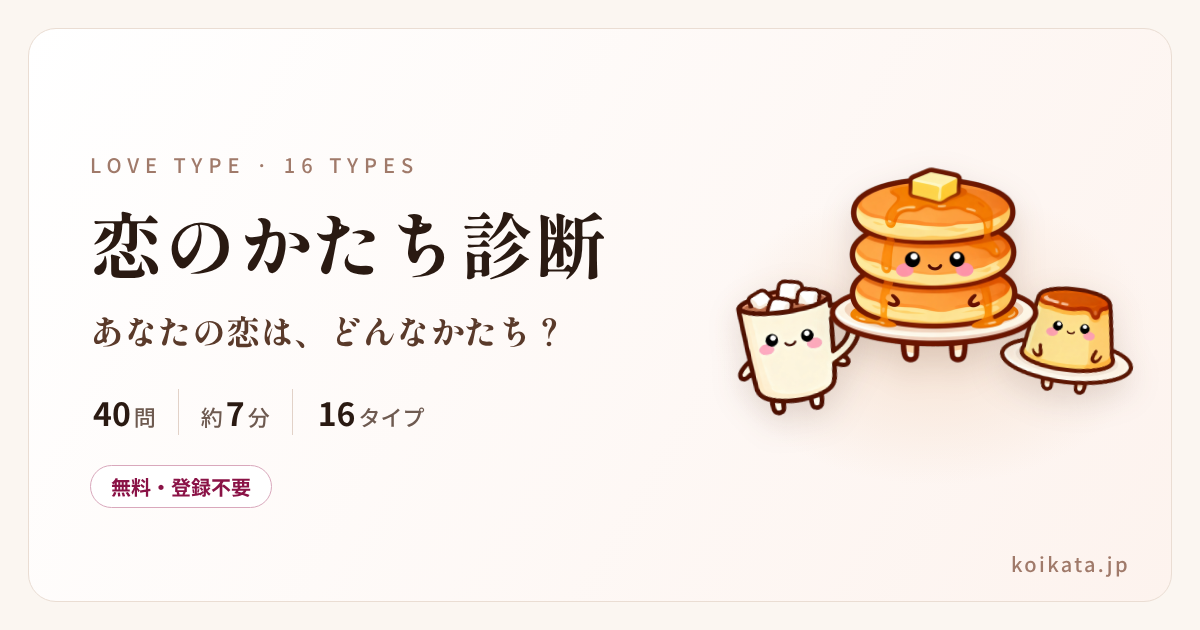
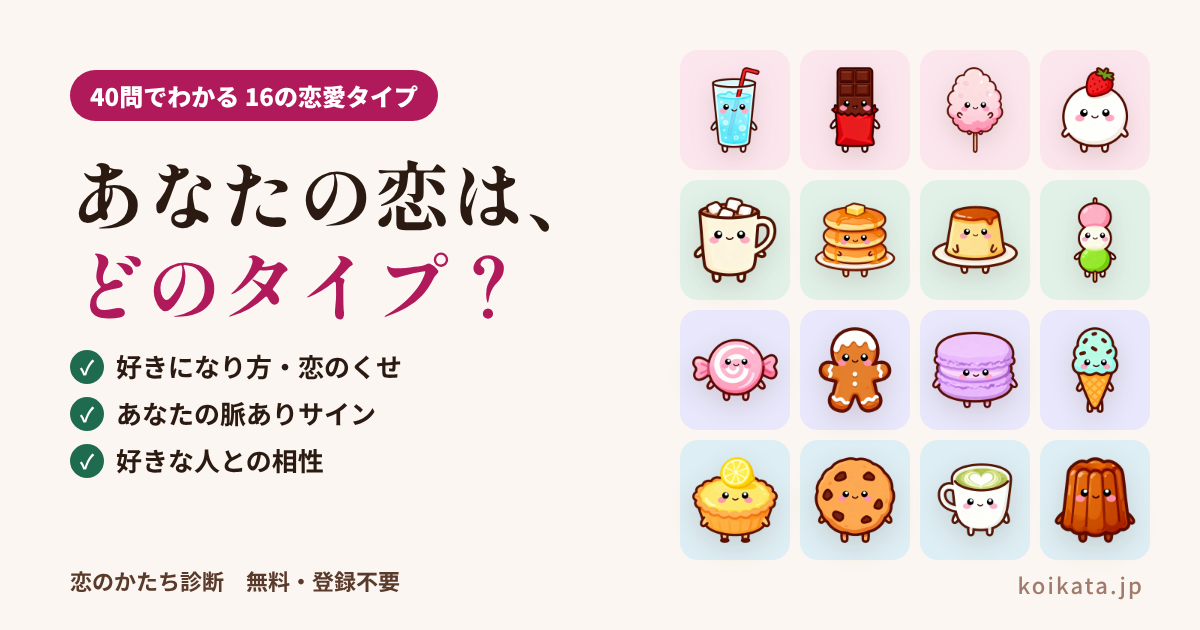
恋のかたち診断：シェアの紹介画像を案A（16タイプを全部見せる）に
Claude-Session: https://claude.ai/code/session_01VNhb2iCPFHtHjevBTfmMUk

diff --git a/tools/koi16_og.html b/tools/koi16_og.html
@@ -1,39 +1,37 @@
-<!doctype html><html lang="ja"><head><meta charset="utf-8">
-<!-- 恋のかたち診断のシェア画像（1200×630）。見た目A「表紙のように」（鑑定者本人 2026-11-16）。
-     作り直し：node tools/koi16_og.cjs → koi16/og-image.png -->
-<link rel="stylesheet" href="https://fonts.googleapis.com/css2?family=Noto+Sans+JP:wght@500;700&family=Shippori+Mincho+B1:wght@800&display=swap">
-<style>
-html,body{margin:0;width:1200px;height:630px;overflow:hidden}
-body{background:#FBF6F1;font-family:"Noto Sans JP",sans-serif;color:#2A1A12;position:relative}
-.frame{position:absolute;inset:28px;border:1.5px solid #EADDD3;border-radius:28px;background:linear-gradient(120deg,#FFFFFF 0%,#FDF3EE 100%)}
-.txt{position:absolute;left:90px;top:150px;width:640px}
-.eye{font-size:20px;letter-spacing:.3em;color:#A07A6A;margin:0 0 22px}
-h1{font-family:"Shippori Mincho B1",serif;font-weight:800;font-size:72px;line-height:1.15;margin:0 0 22px;letter-spacing:.03em;white-space:nowrap}
-.sub{font-family:"Shippori Mincho B1",serif;font-weight:800;font-size:34px;margin:0 0 34px;color:#5A3A2A}
-.spec{display:flex;font-size:22px;color:#6E5A50;margin:0;padding:0;list-style:none}
-.spec li{padding:0 22px;border-left:1.5px solid #E2D2C8}.spec li:first-child{padding-left:0;border-left:0}
-.spec b{font-size:32px;color:#2A1A12;margin:0 3px}
-.free{display:inline-block;margin-top:30px;font-size:20px;font-weight:700;color:#8A1246;border:1.5px solid #D9A8BC;border-radius:999px;padding:6px 20px;background:#fff}
-.stage{position:absolute;right:56px;top:100px;width:420px;height:420px}
-.stage::before{content:"";position:absolute;left:50%;top:56%;width:440px;height:300px;transform:translate(-50%,-50%);border-radius:50%;background:radial-gradient(closest-side,#F6E2D2,rgba(253,243,238,0))}
-.stage img{position:absolute;filter:drop-shadow(0 12px 16px rgba(90,50,30,.16))}
-.c{width:250px;left:50%;top:40px;transform:translateX(-50%);z-index:2}
-.l{width:150px;left:0;top:170px;transform:rotate(-8deg)}
-.r{width:150px;right:0;top:165px;transform:rotate(7deg)}
-.url{position:absolute;right:70px;bottom:52px;font-size:20px;letter-spacing:.12em;color:#A07A6A}
+<!doctype html><html lang="ja"><head><meta charset="utf-8"><link rel="stylesheet" href="https://fonts.googleapis.com/css2?family=Noto+Sans+JP:wght@500;700;900&family=Shippori+Mincho+B1:wght@800&display=swap"><style>html,body{margin:0;width:1200px;height:630px;overflow:hidden}body{background:#FBF6F1;font-family:"Noto Sans JP",sans-serif;color:#2A1A12;position:relative}.min{font-family:"Shippori Mincho B1",serif;font-weight:800}img{filter:drop-shadow(0 8px 12px rgba(90,50,30,.15))}
+.l{position:absolute;left:70px;top:70px;width:560px}
+.eye{display:inline-block;background:#B01A5A;color:#fff;font-weight:900;font-size:24px;padding:8px 20px;border-radius:999px}
+h1{font-size:76px;line-height:1.2;margin:26px 0 18px}
+h1 em{font-style:normal;color:#B01A5A}
+.sub{font-size:28px;font-weight:700;margin:0 0 26px;color:#4A362B}
+.chk{list-style:none;margin:0;padding:0;display:grid;gap:10px;font-size:26px;font-weight:700}
+.chk li::before{content:"✓";display:inline-grid;place-items:center;width:34px;height:34px;border-radius:50%;background:#1F6B4F;color:#fff;font-size:20px;margin-right:12px;vertical-align:2px}
+.g{position:absolute;right:50px;top:50px;width:470px;display:grid;grid-template-columns:repeat(4,1fr);gap:10px}
+.g div{border-radius:18px;height:120px;display:grid;place-items:center}
+.g img{width:96px;height:96px;object-fit:contain}
+.TP{background:#FCE6EE}.TC{background:#E1F1E8}.SP{background:#E8E7FB}.SC{background:#DDEEF4}
+.url{position:absolute;right:56px;bottom:30px;font-size:22px;color:#A07A6A;letter-spacing:.1em}
+.br{position:absolute;left:70px;bottom:34px;font-size:22px;font-weight:700;color:#5A3A2A}
 </style></head><body>
-<div class="frame"></div>
-<div class="txt">
-  <p class="eye">LOVE TYPE · 16 TYPES</p>
-  <h1>恋のかたち診断</h1>
-  <p class="sub">あなたの恋は、どんなかたち？</p>
-  <ul class="spec"><li><b>40</b>問</li><li>約<b>7</b>分</li><li><b>16</b>タイプ</li></ul>
-  <span class="free">無料・登録不要</span>
-</div>
-<div class="stage">
-  <img class="l" src="../koi16/img/LVTC.png" alt="">
-  <img class="r" src="../koi16/img/RVTC.png" alt="">
-  <img class="c" src="../koi16/img/LATC.png" alt="">
-</div>
-<div class="url">koikata.jp</div>
+<div class="l"><span class="eye">40問でわかる 16の恋愛タイプ</span>
+<h1 class="min">あなたの恋は、<br><em>どのタイプ？</em></h1>
+<ul class="chk"><li>好きになり方・恋のくせ</li><li>あなたの脈ありサイン</li><li>好きな人との相性</li></ul></div>
+<div class="g"><div class="TP"><img src="../koi16/img/LVTP.png"></div>
+<div class="TP"><img src="../koi16/img/LATP.png"></div>
+<div class="TP"><img src="../koi16/img/RVTP.png"></div>
+<div class="TP"><img src="../koi16/img/RATP.png"></div>
+<div class="TC"><img src="../koi16/img/LVTC.png"></div>
+<div class="TC"><img src="../koi16/img/LATC.png"></div>
+<div class="TC"><img src="../koi16/img/RVTC.png"></div>
+<div class="TC"><img src="../koi16/img/RATC.png"></div>
+<div class="SP"><img src="../koi16/img/LVSP.png"></div>
+<div class="SP"><img src="../koi16/img/LASP.png"></div>
+<div class="SP"><img src="../koi16/img/RVSP.png"></div>
+<div class="SP"><img src="../koi16/img/RASP.png"></div>
+<div class="SC"><img src="../koi16/img/LVSC.png"></div>
+<div class="SC"><img src="../koi16/img/LASC.png"></div>
+<div class="SC"><img src="../koi16/img/RVSC.png"></div>
+<div class="SC"><img src="../koi16/img/RASC.png"></div></div>
+<div class="br">恋のかたち診断　無料・登録不要</div><div class="url">koikata.jp</div>
 </body></html>
+<!-- 恋のかたち診断のシェア画像（1200×630）。案A＝16タイプを全部見せる（鑑定者本人 2026-11-16「A」）。作り直し：node tools/koi16_og.cjs → koi16/og-image.png -->

diff --git a/CLAUDE.md b/CLAUDE.md
@@ -61,7 +61,7 @@
 - 参考にした lovetype16.jp の軸・名前・文章・絵は使わない（相手のサイトは無断利用禁止）。答えは端末の中だけに保存。
 - **リリースまわり**（鑑定者本人 2026-11-12「プライバシーポリシーや何か法的に必要なものはないか」）：**プライバシーポリシー**（`?privacy=1`・`renderPrivacy`。集める情報なし／端末に保存するもの〈ローカルストレージ・クッキーなし〉と「この端末の答えと結果を消す」ボタン〈`wipeAll`〉／外部送信〈Google Fonts＝Google LLC・サーバーのアクセスログ・LINE／X のボタン〉／ほかのサイトへのリンク／診断について／変更／お問い合わせ）。**問い合わせ先 info@72k.ai はプライバシーポリシーの中だけ**に書き、ページの下（フッター）には出さない（鑑定者本人「問い合わせを表に出す必要はない」）。フッターは「プライバシーポリシー」だけ（ライセンスはページの下に出さない＝鑑定者本人 2026-11-14「出す必要がないものが出てる」。法律上どこかに置く必要があるので、プライバシーポリシーの「8. 使っている部品」に「ライセンスを見る」ボタンを置く。押すとサイトの見た目のままのライセンスのページ〈`?licenses=1`・`renderLicenses`〉が開き、原文〈英語〉はたたんで読める。文字だけのファイルを直接開かせない＝鑑定者本人 2026-11-14「コードがみえるのはおかしい」）。BudouX のライセンス全文は `koi16/licenses/budoux-LICENSE.txt`。アイコンは恋するいちご大福（`favicon.png`・`apple-touch-icon.png`・`icon-512.png`）。**公開URLは https://koikata.jp/**（鑑定者本人が お名前.com で取得 2026-11-13。DNS は お名前.com の DNSレコード設定に A `199.36.158.100`・TXT `hosting-site=koikata`。koinokatachi.jp は取らない＝鑑定者本人の判断 2026-11-13「B」。.com は取られていた）。`python3 tools/koi16_set_domain.py https://koikata.jp/` で入れた。置き場はほかのサイト（究極二択診断など）と同じ **Firebase Hosting**（鑑定者本人の指示 2026-11-13「Firebase につないで」。プロジェクト **16typeplus**〈ID `typeplus-69c66`〉の中のサイトID `koikata`・`koi16/firebase.json`〈target `koikata`〉・`koi16/.firebaserc`・手順 `koi16/公開手順_Firebase.md`。GitHub に保存すると `.github/workflows/koi16-deploy.yml` が自動で公開する〈鍵は GitHub の Secrets `FIREBASE_SERVICE_ACCOUNT_KOIKATA`。鍵をリポジトリやチャットに書かない〉。サーバーの処理はなし＝静的に置くだけ）（og:image を絶対URLに・og:url・canonical・twitter:image。相対URLのままだと LINE・X に紹介画像が出ない。ドメインを変えるときはこれを回し直す）。キャラクターの絵（pollo.ai）は使ってよいことを鑑定者本人が確認済み（2026-11-13「画像は使って大丈夫」）。「1.66%」の根拠は 1.66 側にあることを鑑定者本人が確認済み（2026-11-13「1.66の根拠は大丈夫」）。特定商取引法の表記・クッキーの同意は不要（無料・何も売らない・クッキーなし）。
 - **本格版（40問）とかんたん版（16問）**（鑑定者本人の指示 2026-11-12）：かんたん版は4つのものさしから4問ずつ（`QUICK`）。心のゆれやすさは本格版だけ（かんたん版の結果には「本格版で、もっと正確に」の案内）。
-- **16キャラクターの絵**：鑑定者本人が pollo.ai で作った絵（2026-11-12。`koi16/img/タイプ4文字.png`。16タイプすべて入れた。ひみつのチョコミント〈RASP〉も手足のある絵に差しかえ済み）。SNSの紹介画像 `og-image.png`（1200×630）は見た目A（2026-11-16「直してください」）：アイボリーの地・左に「LOVE TYPE · 16 TYPES」・明朝の「恋のかたち診断」・「あなたの恋は、どんなかたち？」・「40問｜約7分｜16タイプ」・「無料・登録不要」、右にトップと同じパンケーキ・ココア・プリン、右下に koikata.jp。元は `tools/koi16_og.html`、`node tools/koi16_og.cjs` で作り直す。LINE・Xが前の画像を覚えているので、アドレスの後ろに `?v=2`（次に作り直すときは数字を1つ上げる。`tools/koi16_set_domain.py` も同じ）。白い背景や描きこまれた市松模様は `python3 -I tools/koi16_cutout.py 元の画像 koi16/img/LVTP.png` で消して透明にし（取っ手の輪の中など囲まれた背景は、元の画像の位置 `x,y` を足して消す）、`CHARA_IMG` にタイプを足す。サイトが読むのは同じ名前の `.webp`（このツールが `.png` と一緒に作る。見た目は同じで大きさは約5分の1＝16枚で2.1MB→0.37MB。Firebase の無料のプランの「1日に送り出せる量」を守るため。2026-11-14）。画像がないタイプ・読めないときは、こちらで描いたSVG（`ART`・`artSvg`）を出す。保存する画像も同じ絵。ほかのサイトの絵は使わない。作り方の共通の指示は「白い背景・小さな手と足・太い茶色のふちどり」。名前・肩書きは言葉の切れ目でだけ改行する（`cname`・`fname`。泣き別れを作らない）。
+- **16キャラクターの絵**：鑑定者本人が pollo.ai で作った絵（2026-11-12。`koi16/img/タイプ4文字.png`。16タイプすべて入れた。ひみつのチョコミント〈RASP〉も手足のある絵に差しかえ済み）。SNSの紹介画像 `og-image.png`（1200×630）は案A「16タイプを全部見せる」（鑑定者本人 2026-11-16「シンプルすぎる・訴求が弱い」→3案から「A」。「100点満点」の言葉は入れない＝鑑定者本人の指示）：左にローズの札「40問でわかる 16の恋愛タイプ」・明朝の「あなたの恋は、どのタイプ？」（後半はローズ）・わかること3つ（好きになり方・恋のくせ／あなたの脈ありサイン／好きな人との相性）・「恋のかたち診断　無料・登録不要」、右に16体を4つの色の仲間ごとに4×4、右下に koikata.jp。元は `tools/koi16_og.html`、`node tools/koi16_og.cjs` で作り直す。LINE・Xが前の画像を覚えているので、アドレスの後ろに `?v=2`（次に作り直すときは数字を1つ上げる。`tools/koi16_set_domain.py` も同じ）。白い背景や描きこまれた市松模様は `python3 -I tools/koi16_cutout.py 元の画像 koi16/img/LVTP.png` で消して透明にし（取っ手の輪の中など囲まれた背景は、元の画像の位置 `x,y` を足して消す）、`CHARA_IMG` にタイプを足す。サイトが読むのは同じ名前の `.webp`（このツールが `.png` と一緒に作る。見た目は同じで大きさは約5分の1＝16枚で2.1MB→0.37MB。Firebase の無料のプランの「1日に送り出せる量」を守るため。2026-11-14）。画像がないタイプ・読めないときは、こちらで描いたSVG（`ART`・`artSvg`）を出す。保存する画像も同じ絵。ほかのサイトの絵は使わない。作り方の共通の指示は「白い背景・小さな手と足・太い茶色のふちどり」。名前・肩書きは言葉の切れ目でだけ改行する（`cname`・`fname`。泣き別れを作らない）。
 - **見た目**（鑑定者本人の選択 2026-11-12「1にします」＝見本 A・B・D を混ぜた案）：ピーチの地（`--bg:#FFF1EA`）にうすい水玉、カードはミルク色（`--card:#FFFCF7`）、ボタンはローズ（`--rose:#B01A5A`）。カード・ボタン・札・キャラクターの丸に、**絵と同じこげ茶（`--brown:#5A3A2A`）のふちどりと、ずらした影**（シール風）。タイプの4色の仲間はそのまま。保存する画像も同じこげ茶のふちと影。はじめの画面のキャラクターは4つの色の仲間から2つずつ、4つ×2段。
 - **読みやすさ**（鑑定者本人 2026-11-12「黒文字だらけで読みづらい・読み疲れる・頭に入ってこない」）：本文はやわらかいこげ茶（`--text:#4A362B`）、見出しに色の丸じるし（`secH`・`ICO`）、箇条書きは色つきの札（`pills`：強み＝みどり✓／気をつけたい＝きいろ！／すれ違い＝青？／してほしいこと＝ピンク♡／コツ＝青みどりの番号）、説明は最初の1文を大きく太く（`leadSplit`）、結果の上に「ひとことで言うと」（恋のはじまり・いちばんの強み・気をつけたい。`digestHTML`）。結果の画面とキャラ図鑑で同じ形。4つのものさしは「まん中の線から寄っている向きへ色を伸ばし、丸で位置」＋「○○寄り・○%」の札（`.sl`）、心のゆれやすさは「おだやか・ふつう・ゆれやすい」の3つの色の帯に丸（鑑定者本人「物差しがメーターとしてとても分かりづらい」）。結果のいちばん下の行き先ボタンは色・マーク・ひとことの説明を変える（`gobtn`。鑑定者本人「バーが同じ色で分かりづらい」）。画面の上は、キャラクター3つ（はじけるソーダ・あったかココア・恋するいちご大福＝鑑定者本人 2026-11-12「1 恋するいちご大福にします」）＋大きめの題名「恋のかたち診断」＋ひとこと「恋愛心理学を参考にした本格診断」（幅375px未満は「研究を参考にした本格診断」。「お菓子でわかる」は簡易的に見えるのでやめた＝鑑定者本人 2026-11-12「本格診断なので」「しっかり作ったので読み込んでもらいたい」。3つのキャラクターは幅430px以上だけ）、右に きいろの札に★の「キャラ図鑑」（鑑定者本人「タイトルと図鑑が簡素なので、もう少し目立つように」）。
 - **見た目A「表紙のように」**（鑑定者本人 2026-11-16「サイト全体的にださい」→見本 https://claude.ai/artifact/MRg7RUC5JVJRULMni3naa4 で「A」「3」）：水玉とこげ茶の太いふち・ずらした影をやめ、アイボリーの無地（`--bg:#FBF6F1`）・細い線・やわらかい影に（`<style id="lookA">`。前の「見た目」の行のシール風を上書き）。題名・ロゴ・タイプ名は明朝体（Shippori Mincho B1）。はじめの画面は「LOVE TYPE · 16 TYPES」→大きな題名→真ん中ほかほかパンケーキ・左あったかココア・右やさしいミルクプリン（`hero-stage`）→ひとこと→「40問｜約7分｜16タイプ」→本格版のボタン→かんたん版は文字のリンク→「無料・登録不要・答えはこの端末の中だけ」。画面の上のキャラクター3つは外した。結果の表紙（`rhero rcov`。鑑定者本人 2026-11-16「結果の画面も表紙風に」）：色の帯をやめ、上がタイプの色のうすい色から白へのグラデーション・「あなたの恋愛タイプは」（タイプの色の小さな字）・キャラクターを丸から出して大きく（190px）・キャラクター名は明朝で大きく・本格名はタイプの色・細い線の下に「LATC · 寄りそう・安心」・ひとこと。キャラ図鑑も同じ形（鑑定者本人 2026-11-16「キャラ図鑑もそろえて」）：目次の札と各タイプの見出し（`zk-head`）は、色の帯をやめタイプの色のうすい色から白へのグラデーション・キャラクター名は明朝・本格名と番号はタイプの色（`GPALE`）。
